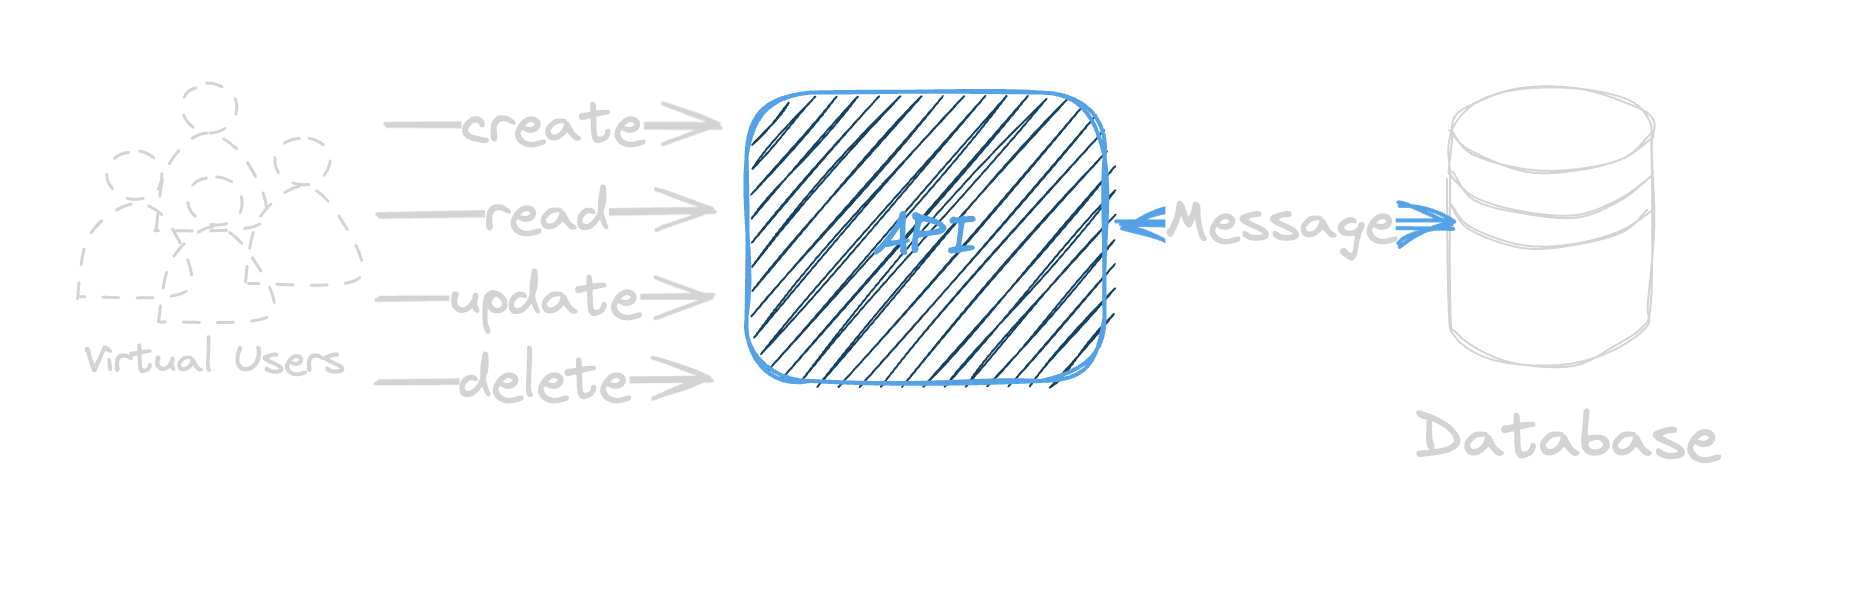
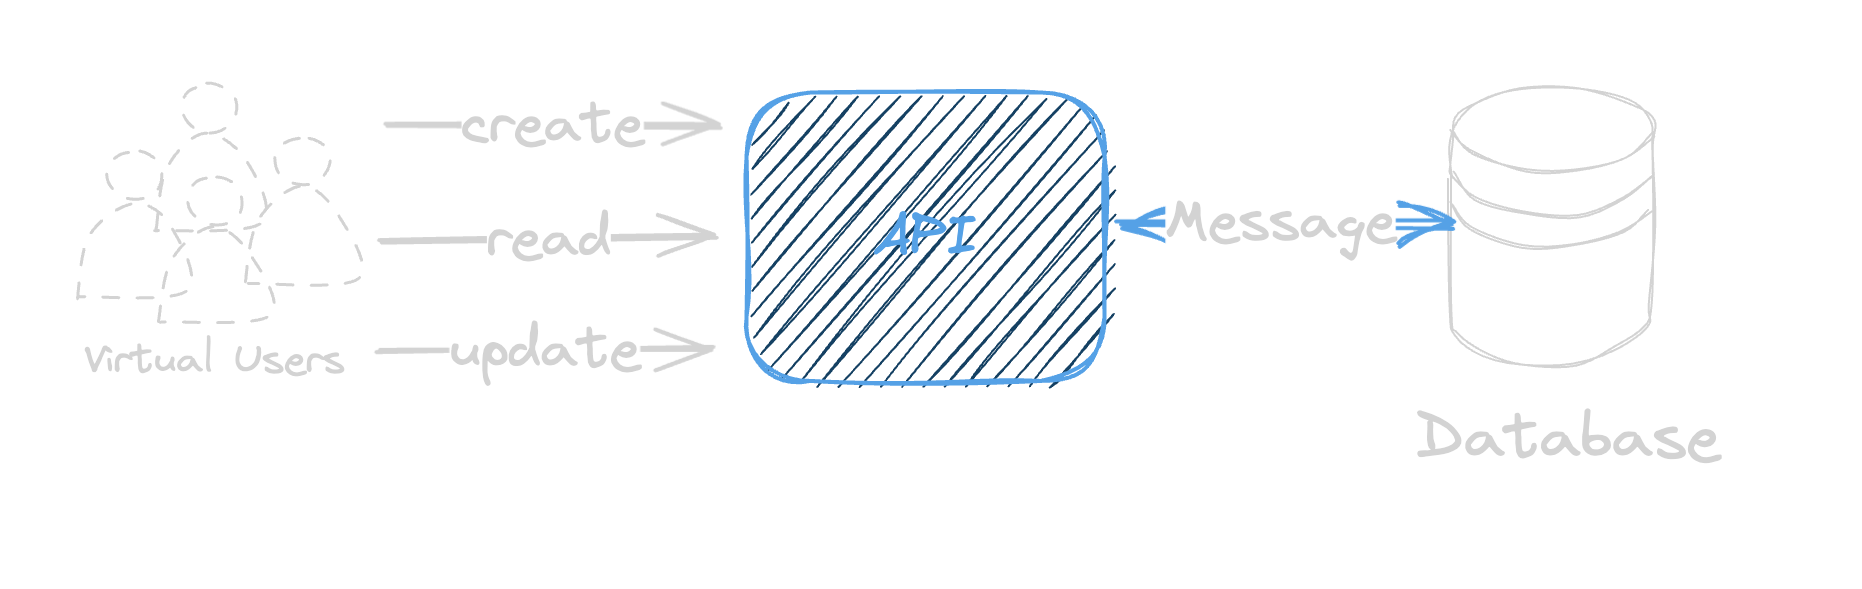
feat(presentation): last adjustment

Changed region(s): [[0.187, 0.1528, 0.5922, 0.7029]]

diff --git a/Presentation/slides_FR.md b/Presentation/slides_FR.md
@@ -151,7 +151,7 @@ Sylvain
 
 Le test de charge est la forme la plus simple et connu pour tester une application.
 L'objectif est de vérifier si l'application est capable de gérer les limites de temps de réponse / consommation 
-ressources qui ont été décider préalablement (par exemple au travers d'un SLA)
+ressources qui ont été décider préalablement (par exemple au travers d'un SLA, Service Level Agreements)
 L'infrastructure est également sous-monitoring durant cette phase de test.
 
 Ce type de test peut être utilisé comme un test de qualité d'une release à une autre, ainsi qu'un objectif à maintenir.
@@ -212,7 +212,7 @@ Le test d'endurance consiste à maintenir une charge pendant un temps extrêmeme
 l'application testée est capable de supporter un tel scénario.
 Comme les tests de charge l'infrastructure est également sous-monitoring durant cette phase de test.
 
-le critere determinant c'est le temps du test (il est tres tres long, le faire apparaitre sur le graph)
+le critère determinant c'est le temps du test (il est trés long, le faire apparaitre sur le graph)
 
 <!--h-->
 
@@ -530,7 +530,6 @@ Pour tester notre API, on va donc avoir un scénario assez simple qui va simuler
 1. un enregistrement d'une donnée
 2. une lecture de ce nouvel enregistrement
 3. une modification de ce nouvel enregistrement
-4. suppression du message en question
 
 Ce scénario sera exécuté par tous les utilisateurs virtuels
 
@@ -548,16 +547,49 @@ Dans cette demonstration, on fait :
 3. lancer le scenario en cloud
 4. on va regarder le scenario en mode cloud et consulter les différents tableau de Blazemeter
 
+<!--v-->
+
+<!-- .slide: data-auto-animate -->
+### Taurus
+
+
+Note:
+Lancement de Taurus en local
+
+<!--v-->
+
+<!-- .slide: data-auto-animate -->
+### Taurus
+
+
+Note:
+Lancement de d'un test sur blazemeter (en mode cloud)
+
 <!--h-->
+
+### Questions ?
+
+<!--v-->
 
 ### Merci !
 
-Questions ?
+Présenté par :
 
-Note:
-(ajouter QR code)
+<div style="display: flex">
+  <div style="margin-right: 1em; flex-grow: 1;">
+    <img src="https://ca.slack-edge.com/T02ARLB3P-UJBF7FZN2-31b7bf716a53-512" width="300"><br/>
+    Douglas SIX
+  </div>
+  <div style="margin-left: 1em; flex-grow: 1;">
+    <img src="img/fake_qr_code.png" width="300"><br/>
+  </div>
+  <div style="margin-left: 1em; flex-grow: 1;">
+    <img src="https://ca.slack-edge.com/T02ARLB3P-U05SKR4V84E-968b749ae082-512" width="300"><br/>
+    Sylvain LAVAZAIS
+  </div>
+</div>
 
-(ajouter nos tronches...)
+
 
 
 
